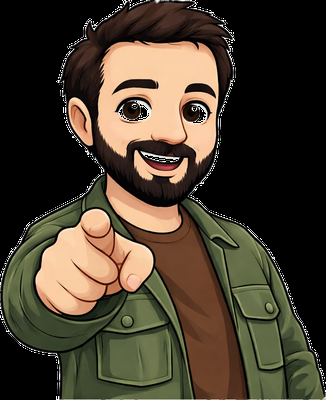
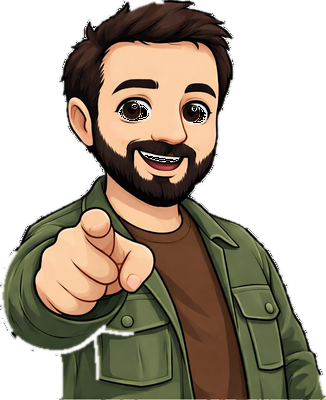
Add files via upload

diff --git a/index.html b/index.html
@@ -446,6 +446,12 @@
   @keyframes bubblePop { 0% { transform:scale(.6); opacity:0; } 100% { transform:scale(1); opacity:1; } }
   #dtmTourBubble .tour-t { font-size:17px; font-weight:800; line-height:1.25; }
   #dtmTourBubble .tour-d { font-size:15px; color:var(--ink); line-height:1.4; margin-top:4px; }
+  @media (max-width:520px) {
+    #dtmTourV { width:62px; left:6px; }
+    #dtmTourBubble { left:72px; right:8px; padding:8px 10px; border-radius:14px; }
+    #dtmTourBubble .tour-t { font-size:15px; }
+    #dtmTourBubble .tour-d { font-size:13.5px; }
+  }
   #dtmTourBubble .tour-foot { display:flex; align-items:center; justify-content:space-between; margin-top:6px; gap:8px; }
   .tour-dots { display:inline-flex; gap:4px; }
   .tour-dot { width:7px; height:7px; border-radius:50%; background:var(--border-strong); display:inline-block; }
@@ -460,11 +466,14 @@
   #dtmTourFinale img { width:min(210px, 48vw); height:auto; transform-origin:50% 95%; animation:vPop .5s cubic-bezier(.34,1.56,.64,1), vGesticule 2.4s ease-in-out .5s infinite; filter:drop-shadow(0 8px 20px rgba(0,0,0,.25)); }
   #dtmTourFinale .finale-t { font-size:24px; font-weight:800; letter-spacing:-.4px; }
   #dtmTourFinale .finale-d { font-size:15.5px; color:var(--ink-2); line-height:1.5; max-width:420px; }
-  .tour-flash { animation: tourFlashK .65s ease-in-out infinite alternate; }
+  .tour-flash { animation: tourFlashK .65s ease-in-out infinite alternate; color:#3d3000 !important; }
   @keyframes tourFlashK { from { background: var(--accent-soft); box-shadow: 0 0 0 0 rgba(255,179,0,0); } to { background: #FFE9A8; box-shadow: 0 0 0 7px rgba(255,179,0,.4); } }
   #dtmTourArrow { position:fixed; z-index:9996; font-size:30px; pointer-events:none; transition:left .3s ease, top .3s ease; animation:arrowBounce .7s ease-in-out infinite alternate; filter:drop-shadow(0 2px 3px rgba(0,0,0,.45)); }
   @keyframes arrowBounce { from { transform:translateY(0); } to { transform:translateY(9px); } }
-  body.dtm-demo #dtmRoot { padding-bottom:150px; }
+  body.dtm-demo #dtmRoot { padding-bottom:240px; }
+  /* En démo, la bande du bas est réservée au V : les popups se compriment et scrollent */
+  body.dtm-demo .v-modal { align-items:flex-start; padding-top:56px; }
+  body.dtm-demo .v-modal-card { max-height:calc(100vh - 290px); max-height:calc(100dvh - 290px); overflow-y:auto; -webkit-overflow-scrolling:touch; }
   body.dtm-demo .mascot-btn, body.dtm-demo .mascot-bubble { display:none !important; }
   /* Mode démo (v198) : ruban fixe cliquable + carte discrète */
   #dtmDemoRibbon { position:fixed; top:0; left:0; right:0; z-index:9998; border:none; background:#C0392B; color:#fff; font:700 12px/1.3 inherit; padding:8px 10px; text-align:center; cursor:pointer; }
@@ -2216,7 +2225,7 @@
 <div id="appData" style="display:none"></div>
 <script id="CATDATA" type="application/json">[]</script>
 <script>
-const APP_VERSION = 'v199';
+const APP_VERSION = 'v201';
 
 /* === ITM APP === */
 (function(){
@@ -12142,6 +12151,45 @@ async function dtmFetchLines() {
 }
 
 /* ---- Photo (même compression que TTM) ---- */
+/* En mode démo, pas d'appareil photo (bloqué dans la visionneuse, et inutile en salle) :
+   on dessine une bouteille de démonstration et on enchaîne comme après une vraie photo. */
+function dtmDemoFakePhoto() {
+  var W = 480, H = 640;
+  var cv = document.createElement('canvas');
+  cv.width = W; cv.height = H;
+  var c = cv.getContext('2d');
+  // fond "table de service"
+  var g = c.createLinearGradient(0, 0, 0, H);
+  g.addColorStop(0, '#efe9dd'); g.addColorStop(1, '#d8cfbe');
+  c.fillStyle = g; c.fillRect(0, 0, W, H);
+  c.fillStyle = 'rgba(90,75,55,.25)'; c.fillRect(0, H - 110, W, 110);
+  // bouteille
+  var hues = ['#2f4a33', '#3a4a2f', '#27413a'];
+  var col = hues[Math.floor(Math.random() * hues.length)];
+  c.fillStyle = col;
+  c.beginPath();
+  c.moveTo(W/2 - 16, 70); c.lineTo(W/2 + 16, 70);            // goulot
+  c.lineTo(W/2 + 16, 200);
+  c.quadraticCurveTo(W/2 + 78, 240, W/2 + 78, 320);           // épaule
+  c.lineTo(W/2 + 78, 560); c.lineTo(W/2 - 78, 560);
+  c.lineTo(W/2 - 78, 320);
+  c.quadraticCurveTo(W/2 - 78, 240, W/2 - 16, 200);
+  c.closePath(); c.fill();
+  c.fillStyle = '#b9922f'; c.fillRect(W/2 - 18, 48, 36, 40);  // capsule
+  c.fillStyle = '#f6f1e4'; c.fillRect(W/2 - 62, 370, 124, 110); // étiquette
+  c.strokeStyle = '#8a7a5a'; c.lineWidth = 3; c.strokeRect(W/2 - 62, 370, 124, 110);
+  c.fillStyle = '#3d3528'; c.font = 'bold 26px sans-serif'; c.textAlign = 'center';
+  c.fillText('DÉMO', W/2, 416);
+  c.font = '16px sans-serif'; c.fillText('L\'Épicerie · ITM', W/2, 448);
+  c.fillStyle = 'rgba(255,255,255,.18)'; c.fillRect(W/2 - 58, 230, 22, 320); // reflet
+  dtmCap.photo = cv.toDataURL('image/jpeg', 0.8);
+  var tc = document.createElement('canvas');
+  tc.width = 135; tc.height = 180;
+  tc.getContext('2d').drawImage(cv, 0, 0, 135, 180);
+  dtmCap.thumb = tc.toDataURL('image/jpeg', 0.6);
+  renderDtm();
+  dtmOpenCaptureModal('format');
+}
 function dtmHandlePhoto(file) {
   if (!file) return;
   var img = new Image();
@@ -12753,7 +12801,8 @@ function dtmTourSpot() {
   var el = qs(sel) || qs(dtmTour.fbSel);
   var r = el ? el.getBoundingClientRect() : null;
   if (!el || !r || !r.width) { els.h.style.display = 'none'; els.a.style.display = 'none'; dtmTour.lastTg = null; dtmTourPlace(null); return; }
-  if (dtmTour.lastTg !== sel) {
+  var vh0 = window.innerHeight || 700;
+  if (dtmTour.lastTg !== sel || r.top < 40 || r.bottom > vh0 - 4) {   // cible hors champ → on la ramène
     dtmTour.lastTg = sel;
     try { el.scrollIntoView({ block: 'center', behavior: 'smooth' }); } catch (e) { try { el.scrollIntoView(); } catch (e2) {} }
   }
@@ -12767,26 +12816,24 @@ function dtmTourSpot() {
   els.a.textContent = above ? '👇' : '👆';
   els.a.style.left = (r.left + r.width / 2 - 16) + 'px';
   els.a.style.top = (above ? (r.top - 44) : (r.bottom + 8)) + 'px';
-  dtmTourPlace(dtmTour.pinBottom ? null : r);
+  dtmTourPlace(r);   // la bulle évite toujours la cible, même sur les étapes « pin » (popups)
 }
 
-/* Le V et sa bulle VIENNENT se placer près de la cible (sous elle si elle est en haut,
-   au-dessus sinon), avec une glisse animée — et rentrent en bas à gauche sans cible. */
+/* Le V et sa bulle restent ancrés EN BAS (barre de dialogue façon jeu vidéo) pour ne
+   jamais cacher le contenu — la cible est centrée au scroll et pointée par le spotlight
+   et la flèche. Si la cible est elle-même dans la zone du bas, le bloc glisse en haut. */
 function dtmTourPlace(r) {
   var els = dtmTourEls();
   var vh = window.innerHeight || 700;
   var vH = els.v.offsetHeight || 110;
   var bH = els.b.offsetHeight || 120;
   var needH = Math.max(vH, bH);
-  var top;
-  if (!r) {
-    top = vh - needH - 10;
-  } else {
-    var mid = (r.top + r.bottom) / 2;
-    if (mid < vh * 0.55) top = Math.min(r.bottom + 16, vh - needH - 8);   // cible en haut → le V dessous
-    else top = Math.max(r.top - needH - 16, 8);                            // cible en bas → le V au-dessus
-  }
-  top = Math.max(8, Math.min(top, vh - needH - 8));
+  var rb = document.getElementById('dtmDemoRibbon');
+  var minTop = rb ? (rb.getBoundingClientRect().bottom + 6) : 8;       // sous le ruban démo
+  var botTop = vh - needH - 10;
+  var top = botTop;                                   // par défaut : en bas
+  if (r && r.bottom > botTop - 16 && r.top > minTop + needH + 16) top = minTop;  // cible en bas → le V en haut
+  top = Math.max(minTop, Math.min(top, botTop));
   els.v.style.top = top + 'px';
   els.b.style.top = top + 'px';
 }
@@ -12815,7 +12862,7 @@ function dtmTourStart() {
         }, 1200);
       }
     } catch (e) {}
-  }, 600);
+  }, 350);
 }
 function dtmTourStop() {
   dtmTour.active = false;
@@ -12997,7 +13044,7 @@ function dtmRenderCapture(root) {
   if (swap) swap.addEventListener('click', function () { dtmDir = dtmDir === 'PC' ? 'CP' : 'PC'; renderDtm(); });
   var photoInput = document.getElementById('dtmPhotoInput');
   var pb = document.getElementById('dtmPhotoBtn');
-  if (pb) pb.addEventListener('click', function () { if (photoInput) photoInput.click(); });
+  if (pb) pb.addEventListener('click', function () { if (dtmDemoOn) { dtmDemoFakePhoto(); return; } if (photoInput) photoInput.click(); });
   if (photoInput) photoInput.addEventListener('change', function () { dtmHandlePhoto(photoInput.files && photoInput.files[0]); });
 
   dtmQueueAll().then(function (q) {

diff --git a/sw.js b/sw.js
@@ -1,6 +1,6 @@
 // ITM Service Worker — offline-first
 // Change la version à chaque mise à jour du code pour forcer le re-téléchargement
-const CACHE_VERSION = 'itm-v199-le-v-guide';
+const CACHE_VERSION = 'itm-v201-tour-mobile';
 const CACHE_NAME = `itm-cache-${CACHE_VERSION}`;
 
 // Ressources à mettre en cache dès l'installation
